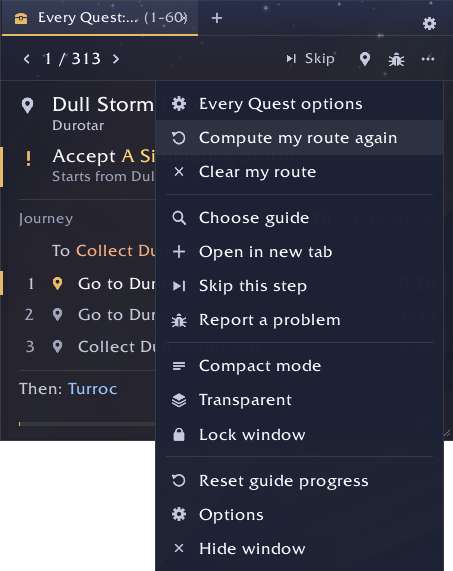
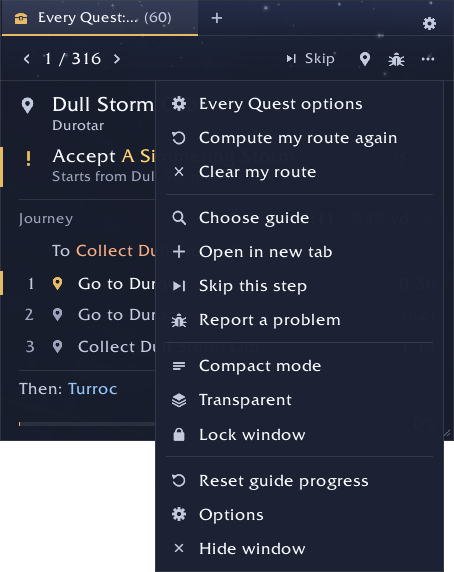
docs: credit Questie and refresh the screenshots
NOTICE.md and the README now credit Questie and QuestieDB, whose data
reaches the addon through Polestar's reference data. The zip holds the
new NOTICE. The screenshots show the guide as level 60.

diff --git a/README.md b/README.md
@@ -47,7 +47,7 @@ The guide window then offers two buttons:
 Once computed, the route is a Polestar guide like any other, one step at a time:
 
 <p align="center">
-  <img src="docs/images/route-step.png" alt="Step 1 of 350 of a computed route: accept a quest from an NPC in Orgrimmar" width="360">
+  <img src="docs/images/route-step.png" alt="Step 1 of 316 of a computed route: accept A Simmering Storm from the Dull Storm Orb in Durotar, with the journey there" width="360">
 </p>
 
 While the route's guide is open, the guide window also has a gear on its tab strip, and three lines at the top of its
@@ -162,6 +162,12 @@ Do not use `forge release pack` or `polestar install` here: they build the catal
 
 If the game does not offer a quest the route asks for, tell which one and what you saw. Quests the data holds but the game
 does not offer go in `tools/known-out.json`, with who reported them.
+
+## Credits
+
+Every Quest uses the data of [Questie](https://github.com/Questie/Questie) and
+[QuestieDB](https://github.com/Questie/QuestieDB), through Polestar's reference data. Thanks to the Questie team and its
+contributors.
 
 ## Licence
 

diff --git a/NOTICE.md b/NOTICE.md
@@ -18,6 +18,11 @@ The data holds facts about the game (ids, names, levels, positions, quest chains
 - `Meta-Horde.lua` and `Meta-Alliance.lua` are written by this project's `tools/build.js`, from the same reference data
   of a Polestar clone: quest levels, chains and reputations, faction names, and the travel network of Polestar's Forge.
 
+## Questie
+
+Every Quest uses the data of Questie (https://github.com/Questie/Questie) and QuestieDB
+(https://github.com/Questie/QuestieDB), through Polestar's reference data. Thanks to the Questie team and its contributors.
+
 ## Data in this repository
 
 The files `scope/excluded-*.json` and `scope/data-gaps-*.json` hold quest ids, titles and levels from the same sources.
